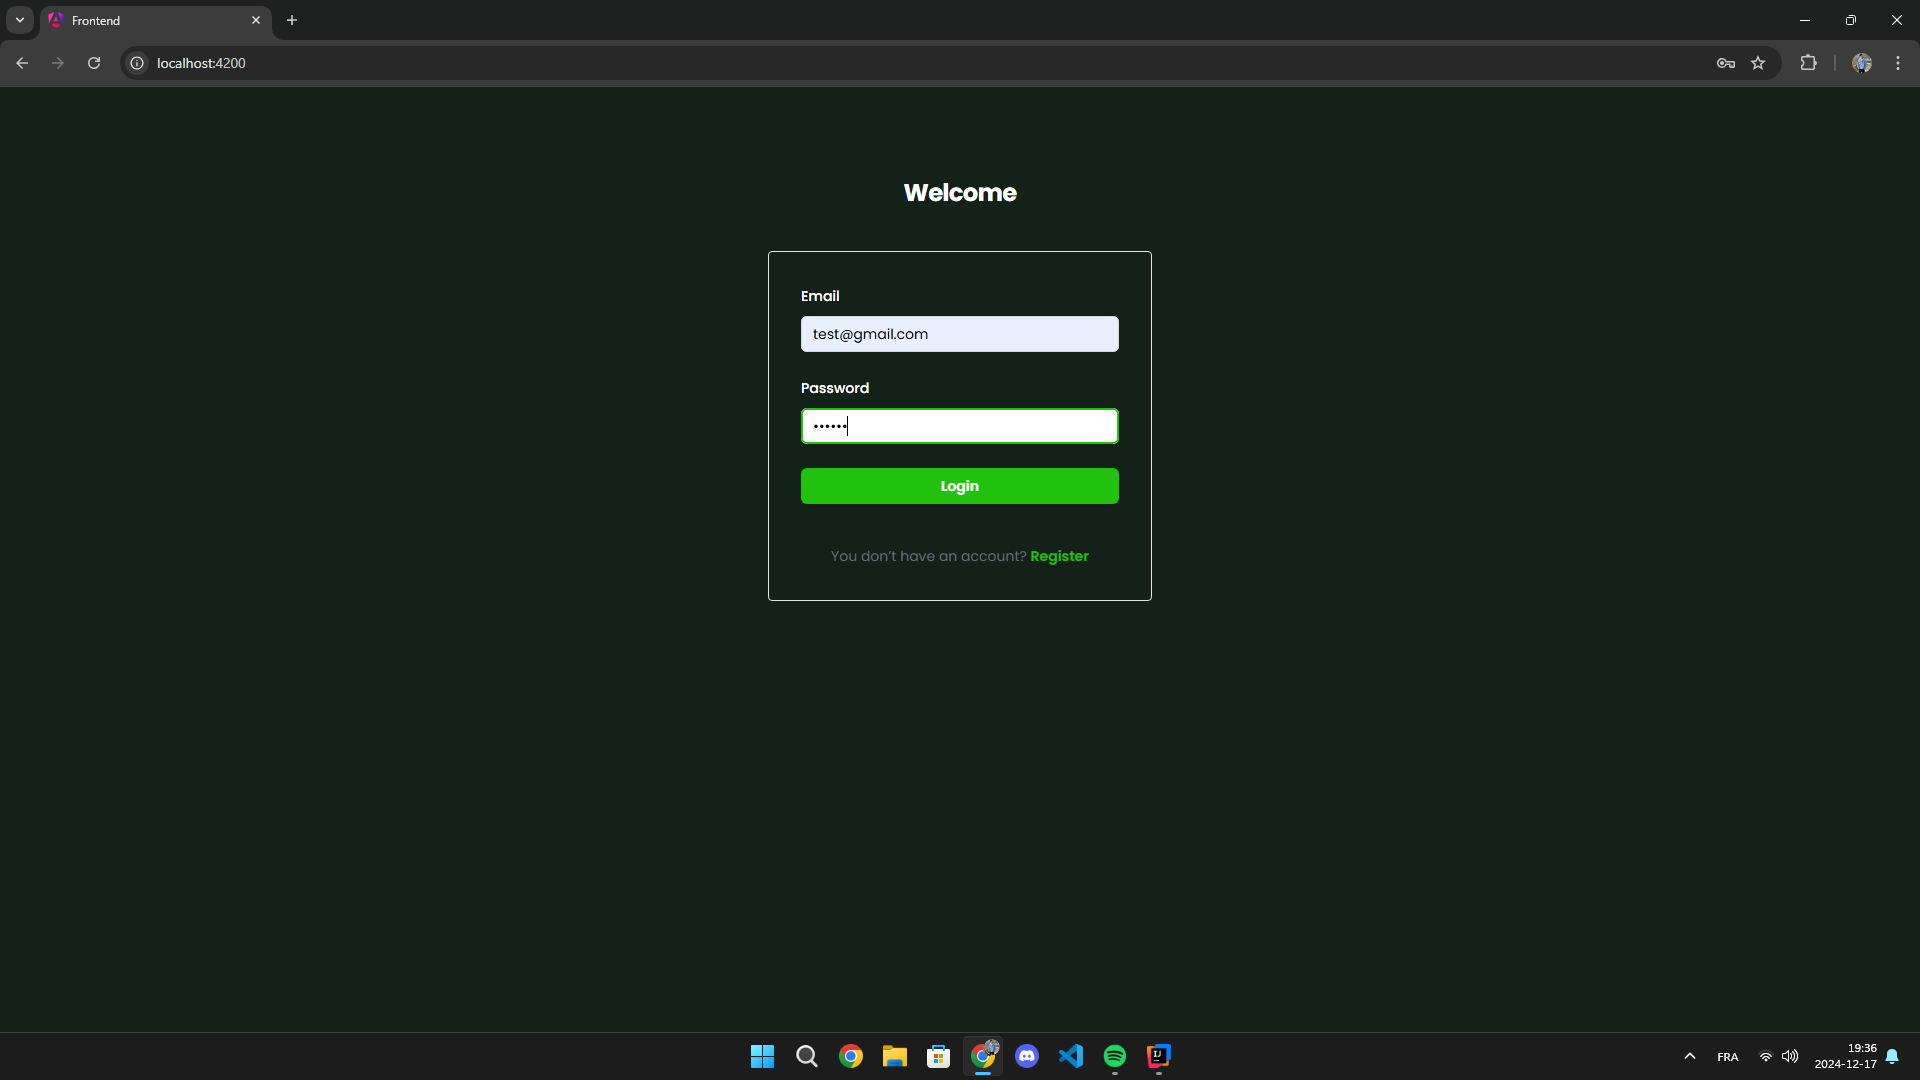
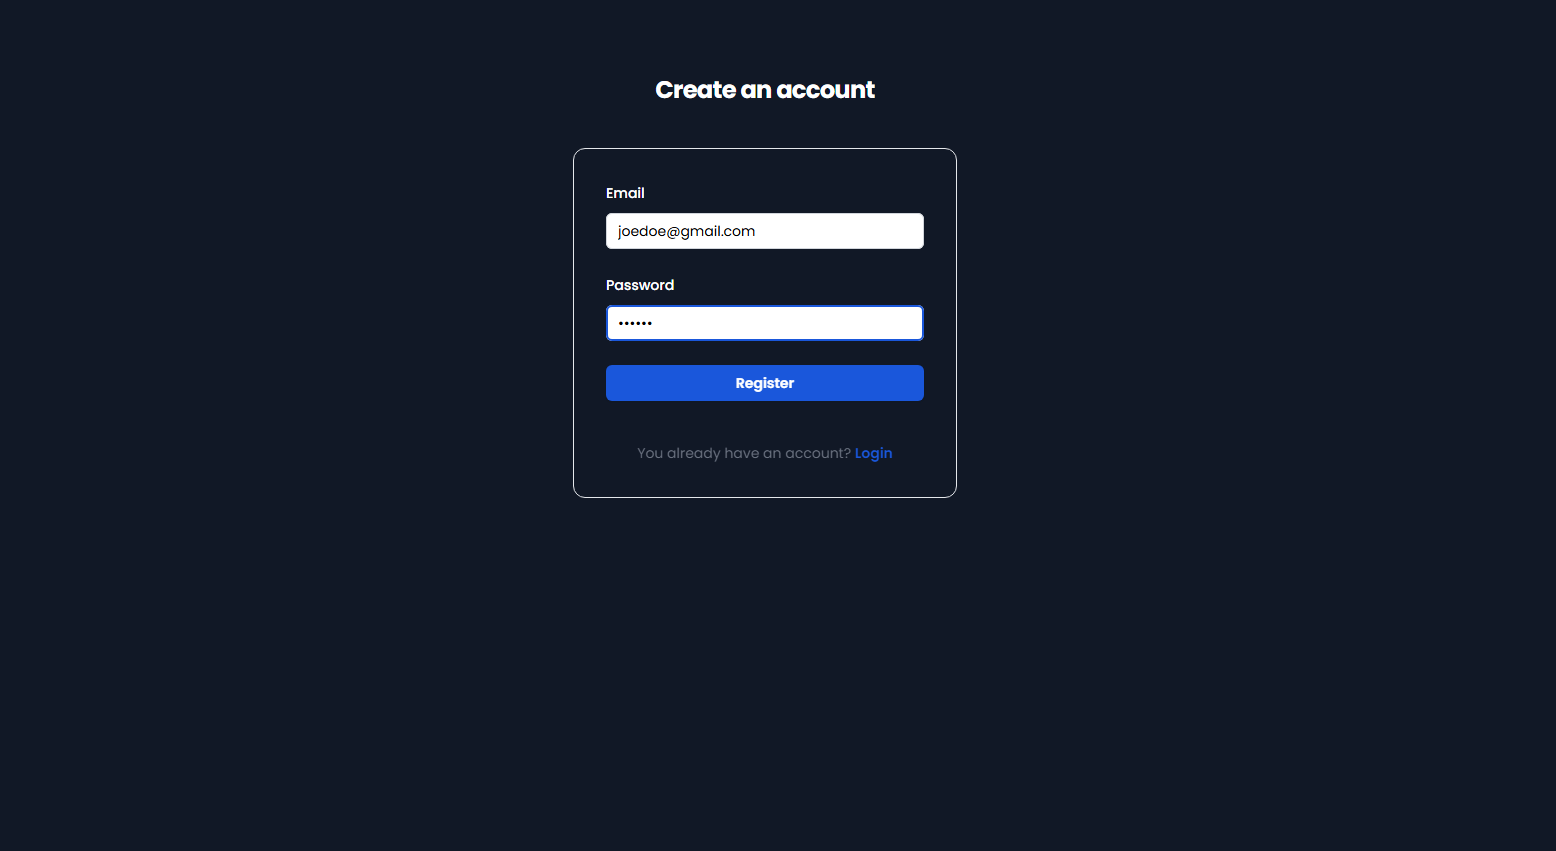
team

diff --git a/frontend/tailwind.config.js b/frontend/tailwind.config.js
@@ -6,7 +6,7 @@ module.exports = {
   theme: {
     extend: {
       colors: {
-        primary: "#20C20E",
+        primary: "#1a57db",
       }
     },
   },

diff --git a/frontend/src/styles.css b/frontend/src/styles.css
@@ -9,5 +9,5 @@
   padding: 0;
   box-sizing: border-box;
   font-family: 'Poppins', sans-serif;
-  background: #142119;
+  background: #111826;
 }
